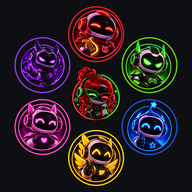
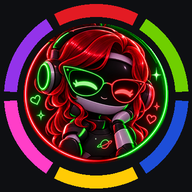
app: foto do grupo com a May grande no meio (aro em degradê vermelho e verde, hexágono certo) e ícone pequeno só com ela e o anel de cores; escritos do cartão dela em verde

diff --git a/app.html b/app.html
@@ -8,7 +8,7 @@
 <meta name="theme-color" content="#0EA371" media="(prefers-color-scheme: light)">
 <meta name="theme-color" content="#0B2A20" media="(prefers-color-scheme: dark)">
 <meta http-equiv="Cache-Control" content="no-cache">
-<meta name="app-versao" content="2026-11-06.14">
+<meta name="app-versao" content="2026-11-06.15">
 <title>Recados</title>
 <link rel="apple-touch-icon" href="apple-touch-icon.png">
 <link rel="icon" type="image/png" href="favicon.png">
@@ -522,7 +522,7 @@ img.esq { min-height: 140px; }
 .barra { display: grid; grid-template-columns: 1fr auto; gap: 4px 8px; margin-top: 12px; font-size: 14px; font-weight: 600; }
 .cracha-pop { background: rgba(0,0,0,.62); padding: 12px 16px; }
 .ct { width: min(100%, 372px); display: grid; gap: 10px; animation: entra .2s ease-out both; --escuro: color-mix(in srgb, var(--quem) 7%, #030303); --borda: linear-gradient(145deg, color-mix(in srgb, var(--quem) 65%, #fff), var(--quem) 35%, color-mix(in srgb, var(--quem) 60%, #000)); --claro: color-mix(in srgb, var(--quem) 78%, #fff); }
-.ct.eu { --borda: linear-gradient(150deg, #E31B23, #FACC15 50%, #22C55E); }
+.ct.eu { --borda: linear-gradient(150deg, #E31B23, #FACC15 50%, #22C55E); --claro: #4ADE80; }   /* os escritos do cartão dela em verde, não vermelho (May, 06/11/2026) */
 .ct.sigma { --borda: linear-gradient(150deg, #9333EA, #9CA3AF 55%, #0A0A0A); --claro: #C084FC; }
 .ct-x { justify-self: end; width: 36px; height: 36px; min-height: 0; border-radius: 50%; border: none; background: rgba(255,255,255,.16); color: #fff; display: grid; place-items: center; padding: 0; }
 .ct svg { fill: none; stroke: currentColor; stroke-width: 2.2; stroke-linecap: round; stroke-linejoin: round; }
